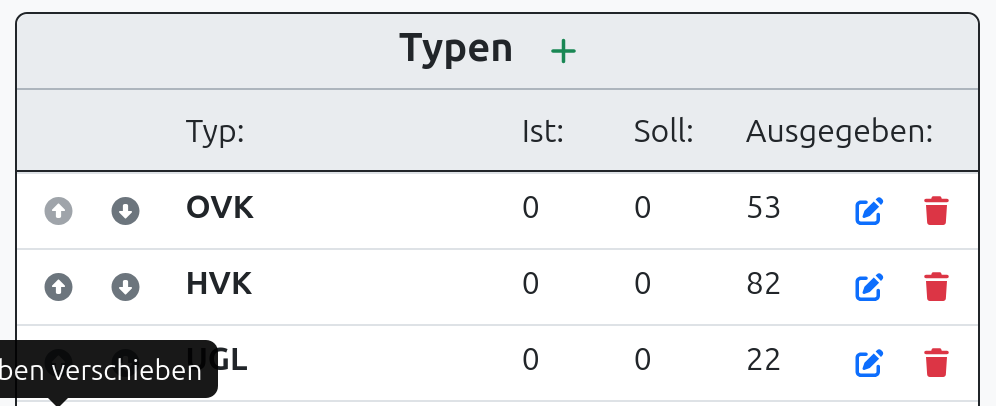
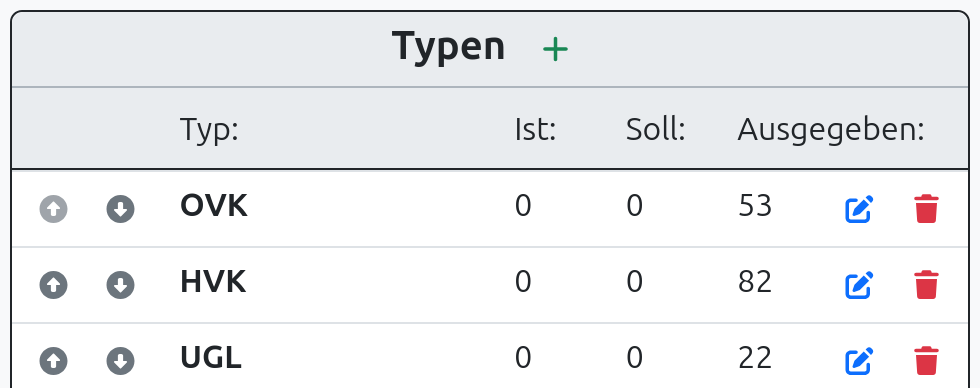
used next Image and Link components, fixed other lint warnings

diff --git a/src/app/[locale]/docs/uniform/detail/page.tsx b/src/app/[locale]/docs/uniform/detail/page.tsx
@@ -1,6 +1,7 @@
 import { faShirt } from "@fortawesome/free-solid-svg-icons";
 import { FontAwesomeIcon } from "@fortawesome/react-fontawesome";
 import Link from "next/link";
+import Image from "next/image";
 
 export const metadata = {
     title: "Einzelteil-Panel — Dokumentation",
@@ -21,7 +22,7 @@ export default function DocsUniformDetailPage() {
             <h2>Details</h2>
             <div className="d-flex flex-column flex-md-row gap-3 align-items-md-start mb-4">
                 <figure className="flex-shrink-0 order-2 order-md-1 m-0">
-                    <img src="/docs-screenshots/uniform-detail-information.png" alt="Ansicht Details" className="img-fluid border rounded shadow-sm" style={{ maxWidth: "380px" }} />
+                    <Image src="/docs-screenshots/uniform-detail-information.png" alt="Ansicht Details" className="img-fluid border rounded shadow-sm" width={380} height={240} />
                     <figcaption className="text-muted small mt-1">Ansicht Details</figcaption>
                 </figure>
                 <div className="order-1 order-md-2">
@@ -40,7 +41,7 @@ export default function DocsUniformDetailPage() {
             <h2>Besitzer</h2>
             <div className="d-flex flex-column flex-md-row gap-3 align-items-md-start mb-4">
                 <figure className="flex-shrink-0 order-2 order-md-1 m-0">
-                    <img src="/docs-screenshots/uniform-detail-owner.png" alt="Ansicht Besitzer" className="img-fluid border rounded shadow-sm" style={{ maxWidth: "380px" }} />
+                    <Image src="/docs-screenshots/uniform-detail-owner.png" alt="Ansicht Besitzer" className="img-fluid border rounded shadow-sm" width={380} height={240} />
                     <figcaption className="text-muted small mt-1">Ansicht Besitzer</figcaption>
                 </figure>
                 <div className="order-1 order-md-2">
@@ -55,7 +56,7 @@ export default function DocsUniformDetailPage() {
             <h2>Lagereinheit</h2>
             <div className="d-flex flex-column flex-md-row gap-3 align-items-md-start mb-4">
                 <figure className="flex-shrink-0 order-2 order-md-1 m-0">
-                    <img src="/docs-screenshots/uniform-detail-storage.png" alt="Ansicht Lagereinheit" className="img-fluid border rounded shadow-sm" style={{ maxWidth: "380px" }} />
+                    <Image src="/docs-screenshots/uniform-detail-storage.png" alt="Ansicht Lagereinheit" className="img-fluid border rounded shadow-sm" width={380} height={240} />
                     <figcaption className="text-muted small mt-1">Ansicht Lagereinheit</figcaption>
                 </figure>
                 <div className="order-1 order-md-2">
@@ -74,7 +75,7 @@ export default function DocsUniformDetailPage() {
             <h2>Mängel</h2>
             <div className="d-flex flex-column flex-md-row gap-3 align-items-md-start mb-4">
                 <figure className="flex-shrink-0 order-2 order-md-1 m-0">
-                    <img src="/docs-screenshots/uniform-detail-deficiency.png" alt="Ansicht Mängel" className="img-fluid border rounded shadow-sm" style={{ maxWidth: "380px" }} />
+                    <Image src="/docs-screenshots/uniform-detail-deficiency.png" alt="Ansicht Mängel" className="img-fluid border rounded shadow-sm" width={380} height={240} />
                     <figcaption className="text-muted small mt-1">Ansicht Mängel</figcaption>
                 </figure>
                 <div className="order-1 order-md-2">
@@ -89,7 +90,7 @@ export default function DocsUniformDetailPage() {
             <h2>Historie</h2>
             <div className="d-flex flex-column flex-md-row gap-3 align-items-md-start mb-4">
                 <figure className="flex-shrink-0 order-2 order-md-1 m-0">
-                    <img src="/docs-screenshots/uniform-detail-history.png" alt="Ansicht Historie" className="img-fluid border rounded shadow-sm" style={{ maxWidth: "380px" }} />
+                    <Image src="/docs-screenshots/uniform-detail-history.png" alt="Ansicht Historie" className="img-fluid border rounded shadow-sm" width={380} height={240} />
                     <figcaption className="text-muted small mt-1">Ansicht Historie</figcaption>
                 </figure>
                 <div className="order-1 order-md-2">

diff --git a/src/app/[locale]/docs/uniform/list/page.tsx b/src/app/[locale]/docs/uniform/list/page.tsx
@@ -1,5 +1,7 @@
 import { faShirt } from "@fortawesome/free-solid-svg-icons";
 import { FontAwesomeIcon } from "@fortawesome/react-fontawesome";
+import Image from "next/image";
+import Link from "next/link";
 
 export const metadata = {
     title: "Uniformliste — Dokumentation",
@@ -20,7 +22,7 @@ export default function DocsUniformListPage() {
 
             <hr />
             <figure className="mb-4">
-                <img src="/docs-screenshots/uniform-list-page.png" alt="Ansicht Uniformliste" className="img-fluid border rounded shadow-sm" />
+                <Image src="/docs-screenshots/uniform-list-page.png" alt="Ansicht Uniformliste" className="img-fluid border rounded shadow-sm" width={1200} height={500} />
                 <figcaption className="text-muted small mt-1">Ansicht Uniformliste</figcaption>
             </figure>
 
@@ -36,7 +38,7 @@ export default function DocsUniformListPage() {
             <h3>Suche</h3>
             <div className="d-flex flex-column flex-md-row gap-3 align-items-md-start mb-4">
                 <figure className="flex-shrink-0 order-2 order-md-1 m-0">
-                    <img src="/docs-screenshots/uniform-list-search.png" alt="Ansicht Suchfeld" className="img-fluid border rounded shadow-sm" style={{ maxWidth: "250px" }} />
+                    <Image src="/docs-screenshots/uniform-list-search.png" alt="Ansicht Suchfeld" className="img-fluid border rounded shadow-sm" width={250} height={160} />
                     <figcaption className="text-muted small mt-1">Ansicht Suchfeld</figcaption>
                 </figure>
                 <div className="order-1 order-md-2">
@@ -58,7 +60,7 @@ export default function DocsUniformListPage() {
             <h3>Filter</h3>
             <div className="d-flex flex-column flex-md-row gap-3 align-items-md-start mb-4">
                 <figure className="flex-shrink-0 order-2 order-md-1 m-0">
-                    <img src="/docs-screenshots/uniform-list-filter.png" alt="Ansicht Filterpanel" className="img-fluid border rounded shadow-sm" style={{ maxWidth: "280px" }} />
+                    <Image src="/docs-screenshots/uniform-list-filter.png" alt="Ansicht Filterpanel" className="img-fluid border rounded shadow-sm" width={280} height={180} />
                     <figcaption className="text-muted small mt-1">Ansicht Filterpanel</figcaption>
                 </figure>
                 <div className="order-1 order-md-2">
@@ -82,13 +84,13 @@ export default function DocsUniformListPage() {
                 Das <strong>R</strong>-Badge an der Nummer kennzeichnet Reserveteile.
                 Ein Besitzer-Link führt direkt zur Detailseite der Person.
             </p>
-            <p>
+                <p>
                 Das externe Link-Symbol am Zeilenende öffnet das{" "}
-                <a href="/docs/uniform/detail">Einzelteil-Panel</a> für dieses Teil.
+                <Link href="/docs/uniform/detail">Einzelteil-Panel</Link> für dieses Teil.
             </p>
 
             <figure className="mb-4">
-                <img src="/docs-screenshots/uniform-list-table.png" alt="Ansicht Tabelle" className="img-fluid border rounded shadow-sm" />
+                <Image src="/docs-screenshots/uniform-list-table.png" alt="Ansicht Tabelle" className="img-fluid border rounded shadow-sm" width={800} height={400} />
                 <figcaption className="text-muted small mt-1">Ansicht Tabelle</figcaption>
             </figure>
 

diff --git a/src/app/[locale]/docs/admin/material/page.tsx b/src/app/[locale]/docs/admin/material/page.tsx
@@ -1,4 +1,5 @@
 import Link from "next/link";
+import Image from "next/image";
 
 export const metadata = {
     title: "Material-Konfiguration — Dokumentation",
@@ -16,14 +17,14 @@ export default function DocsAdminMaterialPage() {
             <hr />
 
             <figure className="mb-4">
-                <img src="/docs-screenshots/material-config-page.png" alt="Material-Konfiguration" className="img-fluid border rounded shadow-sm" />
+                <Image src="/docs-screenshots/material-config-page.png" alt="Material-Konfiguration" className="img-fluid border rounded shadow-sm" width={1200} height={500} />
                 <figcaption className="text-muted small mt-1">Material-Konfigurationsseite mit Materialgruppen und Sortierungs-Schiebereglern.</figcaption>
             </figure>
 
             <h2>Aufbau der Seite</h2>
             <div className="d-flex flex-column flex-md-row gap-3 align-items-md-start mb-4">
                 <figure className="flex-shrink-0 order-2 order-md-1 m-0">
-                    <img src="/docs-screenshots/material-config-group-detail.png" alt="Ansicht Gruppendetails" className="img-fluid border rounded shadow-sm" style={{ maxWidth: "320px" }} />
+                    <Image src="/docs-screenshots/material-config-group-detail.png" alt="Ansicht Gruppendetails" className="img-fluid border rounded shadow-sm" width={320} height={200} />
                     <figcaption className="text-muted small mt-1">Ansicht Gruppendetails</figcaption>
                 </figure>
                 <div className="order-1 order-md-2">
@@ -39,7 +40,7 @@ export default function DocsAdminMaterialPage() {
             <h2>Materialgruppen verwalten</h2>
             <div className="d-flex flex-column flex-md-row gap-3 align-items-md-start mb-4">
                 <figure className="flex-shrink-0 order-2 order-md-1 m-0">
-                    <img src="/docs-screenshots/material-config-groups.png" alt="Ansicht Materialgruppen" className="img-fluid border rounded shadow-sm" style={{ maxWidth: "260px" }} />
+                    <Image src="/docs-screenshots/material-config-groups.png" alt="Ansicht Materialgruppen" className="img-fluid border rounded shadow-sm" width={260} height={170} />
                     <figcaption className="text-muted small mt-1">Ansicht Materialgruppen</figcaption>
                 </figure>
                 <div className="order-1 order-md-2">
@@ -60,7 +61,7 @@ export default function DocsAdminMaterialPage() {
             <h2>Materialtypen verwalten</h2>
             <div className="d-flex flex-column flex-md-row gap-3 align-items-md-start mb-4">
                 <figure className="flex-shrink-0 order-2 order-md-1 m-0">
-                    <img src="/docs-screenshots/material-config-type-list.png" alt="Ansicht Materialtypen" className="img-fluid border rounded shadow-sm" style={{ maxWidth: "380px" }} />
+                    <Image src="/docs-screenshots/material-config-type-list.png" alt="Ansicht Materialtypen" className="img-fluid border rounded shadow-sm" width={380} height={240} />
                     <figcaption className="text-muted small mt-1">Ansicht Materialtypen</figcaption>
                 </figure>
                 <div className="order-1 order-md-2">

diff --git a/src/app/[locale]/docs/cadet/detail/page.tsx b/src/app/[locale]/docs/cadet/detail/page.tsx
@@ -1,5 +1,6 @@
 import { faDisplay } from "@fortawesome/free-solid-svg-icons";
 import { FontAwesomeIcon } from "@fortawesome/react-fontawesome";
+import Image from "next/image";
 
 export const metadata = {
     title: "Personendetail — Dokumentation",
@@ -27,7 +28,7 @@ export default function DocsCadetDetailPage() {
             <h2>Personaldaten</h2>
             <div className="d-flex flex-column flex-md-row gap-3 align-items-md-start mb-4">
                 <figure className="flex-shrink-0 order-2 order-md-1 m-0">
-                    <img src="/docs-screenshots/cadet-detail-data.png" alt="Ansicht Personaldaten" className="img-fluid border rounded shadow-sm" style={{ maxWidth: "220px" }} />
+                    <Image src="/docs-screenshots/cadet-detail-data.png" alt="Ansicht Personaldaten" className="img-fluid border rounded shadow-sm" width={220} height={140} />
                     <figcaption className="text-muted small mt-1">Ansicht Personaldaten</figcaption>
                 </figure>
                 <div className="order-1 order-md-2">
@@ -46,7 +47,7 @@ export default function DocsCadetDetailPage() {
             <h2>Mängel</h2>
             <div className="d-flex flex-column flex-md-row gap-3 align-items-md-start mb-4">
                 <figure className="flex-shrink-0 order-2 order-md-1 m-0">
-                    <img src="/docs-screenshots/cadet-detail-deficiency.png" alt="Ansicht Mängel" className="img-fluid border rounded shadow-sm" style={{ maxWidth: "340px" }} />
+                    <Image src="/docs-screenshots/cadet-detail-deficiency.png" alt="Ansicht Mängel" className="img-fluid border rounded shadow-sm" width={340} height={220} />
                     <figcaption className="text-muted small mt-1">Ansicht Mängel</figcaption>
                 </figure>
                 <div className="order-1 order-md-2">
@@ -83,14 +84,14 @@ export default function DocsCadetDetailPage() {
             </div>
 
             <figure className="mb-4 m-0">
-                <img src="/docs-screenshots/cadet-detail-uniform.png" alt="Ansicht Uniformteile" className="img-fluid border rounded shadow-sm" />
+                <Image src="/docs-screenshots/cadet-detail-uniform.png" alt="Ansicht Uniformteile" className="img-fluid border rounded shadow-sm" width={800} height={400} />
                 <figcaption className="text-muted small mt-1">Ansicht Uniformteile</figcaption>
             </figure>
 
             <h2>Material</h2>
             <div className="d-flex flex-column flex-md-row gap-3 align-items-md-start mb-4">
                 <figure className="flex-shrink-0 order-2 order-md-1 m-0">
-                    <img src="/docs-screenshots/cadet-detail-material.png" alt="Ansicht Material" className="img-fluid border rounded shadow-sm" style={{ maxWidth: "300px" }} />
+                    <Image src="/docs-screenshots/cadet-detail-material.png" alt="Ansicht Material" className="img-fluid border rounded shadow-sm" width={300} height={200} />
                     <figcaption className="text-muted small mt-1">Ansicht Material</figcaption>
                 </figure>
                 <div className="order-1 order-md-2">

diff --git a/src/app/[locale]/docs/storage/overview/page.tsx b/src/app/[locale]/docs/storage/overview/page.tsx
@@ -1,5 +1,6 @@
 import { faBoxOpen } from "@fortawesome/free-solid-svg-icons";
 import { FontAwesomeIcon } from "@fortawesome/react-fontawesome";
+import Image from "next/image";
 
 export const metadata = {
     title: "Lagerverwaltung — Dokumentation",
@@ -21,7 +22,7 @@ export default function DocsStorageOverviewPage() {
             <hr />
 
             <figure className="mb-4">
-                <img src="/docs-screenshots/storage-page.png" alt="Ansicht Lagerverwaltungsseite" className="img-fluid border rounded shadow-sm" />
+                <Image src="/docs-screenshots/storage-page.png" alt="Ansicht Lagerverwaltungsseite" className="img-fluid border rounded shadow-sm" width={1200} height={500} />
                 <figcaption className="text-muted small mt-1">Ansicht Lagerverwaltungsseite</figcaption>
             </figure>
 
@@ -38,7 +39,7 @@ export default function DocsStorageOverviewPage() {
             <h2>Detailpanel</h2>
             <div className="d-flex flex-column flex-md-row gap-3 align-items-md-start mb-4">
                 <figure className="flex-shrink-0 order-2 order-md-1 m-0">
-                    <img src="/docs-screenshots/storage-panel-details.png" alt="Ansicht Detailpanel" className="img-fluid border rounded shadow-sm" style={{ maxWidth: "380px" }} />
+                    <Image src="/docs-screenshots/storage-panel-details.png" alt="Ansicht Detailpanel" className="img-fluid border rounded shadow-sm" width={380} height={240} />
                     <figcaption className="text-muted small mt-1">Ansicht Detailpanel</figcaption>
                 </figure>
                 <div className="order-1 order-md-2">
@@ -57,7 +58,7 @@ export default function DocsStorageOverviewPage() {
             <h2>Uniformteile zuweisen</h2>
             <div className="d-flex flex-column flex-md-row gap-3 align-items-md-start mb-4">
                 <figure className="flex-shrink-0 order-2 order-md-1 m-0">
-                    <img src="/docs-screenshots/storage-panel-items.png" alt="Ansicht Uniformteile" className="img-fluid border rounded shadow-sm" style={{ maxWidth: "380px" }} />
+                    <Image src="/docs-screenshots/storage-panel-items.png" alt="Ansicht Uniformteile" className="img-fluid border rounded shadow-sm" width={380} height={240} />
                     <figcaption className="text-muted small mt-1">Ansicht Uniformteile der Lagereinheit</figcaption>
                 </figure>
                 <div className="order-1 order-md-2">

diff --git a/src/app/[locale]/docs/admin/uniform/page.tsx b/src/app/[locale]/docs/admin/uniform/page.tsx
@@ -1,4 +1,5 @@
 import Link from "next/link";
+import Image from "next/image";
 
 export const metadata = {
     title: "Uniform-Konfiguration — Dokumentation",
@@ -17,14 +18,14 @@ export default function DocsAdminUniformPage() {
             <hr />
 
             <figure className="mb-4">
-                <img src="/docs-screenshots/uniform-config-type-list.png" alt="Uniform-Konfiguration" className="img-fluid border rounded shadow-sm" />
+                <Image src="/docs-screenshots/uniform-config-type-list.png" alt="Uniform-Konfiguration" className="img-fluid border rounded shadow-sm" width={1200} height={500} />
                 <figcaption className="text-muted small mt-1">Uniform-Konfigurationsseite mit Uniformtypen und Größenlisten.</figcaption>
             </figure>
 
             <h2>Uniformtypen verwalten</h2>
             <div className="d-flex flex-column flex-md-row gap-3 align-items-md-start mb-4">
                 <figure className="flex-shrink-0 order-2 order-md-1 m-0">
-                    <img src="/docs-screenshots/uniform-config-type-details.png" alt="Ansicht Uniformtyp-Details" className="img-fluid border rounded shadow-sm" style={{ maxWidth: "380px" }} />
+                    <Image src="/docs-screenshots/uniform-config-type-details.png" alt="Ansicht Uniformtyp-Details" className="img-fluid border rounded shadow-sm" width={380} height={240} />
                     <figcaption className="text-muted small mt-1">Ansicht Uniformtyp-Details</figcaption>
                 </figure>
                 <div className="order-1 order-md-2">
@@ -43,7 +44,7 @@ export default function DocsAdminUniformPage() {
             <h2>Generationen verwalten</h2>
             <div className="d-flex flex-column flex-md-row gap-3 align-items-md-start mb-4">
                 <figure className="flex-shrink-0 order-2 order-md-1 m-0">
-                    <img src="/docs-screenshots/uniform-config-generation-list.png" alt="Ansicht Generationsliste" className="img-fluid border rounded shadow-sm" style={{ maxWidth: "380px" }} />
+                    <Image src="/docs-screenshots/uniform-config-generation-list.png" alt="Ansicht Generationsliste" className="img-fluid border rounded shadow-sm" width={380} height={240} />
                     <figcaption className="text-muted small mt-1">Ansicht Generationsliste</figcaption>
                 </figure>
                 <div className="order-1 order-md-2">

diff --git a/src/app/[locale]/docs/cadet/list/page.tsx b/src/app/[locale]/docs/cadet/list/page.tsx
@@ -1,5 +1,6 @@
-import { faDisplay, faUser } from "@fortawesome/free-solid-svg-icons";
+import { faUser } from "@fortawesome/free-solid-svg-icons";
 import { FontAwesomeIcon } from "@fortawesome/react-fontawesome";
+import Image from "next/image";
 
 export const metadata = {
     title: "Personalliste — Dokumentation",
@@ -22,7 +23,7 @@ export default function DocsCadetListPage() {
 
             <hr />
             <figure className="my-4">
-                <img src="/docs-screenshots/Personalliste.png" alt="Nutzerverwaltung" className="img-fluid border rounded shadow-sm" />
+                <Image src="/docs-screenshots/Personalliste.png" alt="Nutzerverwaltung" className="img-fluid border rounded shadow-sm" width={1200} height={500} />
                 <figcaption className="text-muted small mt-1">Nutzerübersicht mit Benutzernamen, Rollen und Status aller Konten der Organisation.</figcaption>
             </figure>
             
@@ -48,7 +49,7 @@ export default function DocsCadetListPage() {
             </ul>
 
              <figure className="my-4">
-                <img src="/docs-screenshots/Personalliste-filter.png" alt="Nutzerverwaltung" className="img-fluid border rounded shadow-sm" />
+                <Image src="/docs-screenshots/Personalliste-filter.png" alt="Nutzerverwaltung" className="img-fluid border rounded shadow-sm" width={800} height={400} />
                 <figcaption className="text-muted small mt-1">Nutzerübersicht mit Benutzernamen, Rollen und Status aller Konten der Organisation.</figcaption>
             </figure>
 

diff --git a/src/app/[locale]/[acronym]/admin/user/tableLine.tsx b/src/app/[locale]/[acronym]/admin/user/tableLine.tsx
@@ -11,8 +11,8 @@ import { User } from "@/types/userTypes";
 import { faBars, faCheck, faX } from "@fortawesome/free-solid-svg-icons";
 import { FontAwesomeIcon } from "@fortawesome/react-fontawesome";
 import { useEffect, useState } from "react";
-import { Button, Dropdown, FormControl, FormGroup, FormLabel, FormSelect } from "react-bootstrap";
-import { Control, Controller, FieldErrors, FormProvider, UseFormRegister, useForm } from "react-hook-form";
+import { Button, Dropdown, FormGroup, FormLabel, FormSelect } from "react-bootstrap";
+import { Control, Controller, useForm } from "react-hook-form";
 import { toast } from "react-toastify";
 
 export default function UserAdminTableRow({
@@ -28,7 +28,7 @@ export default function UserAdminTableRow({
     const modal = useModal();
 
     const formId = `user_${user ? user.id : "new"}`;
-    const { register, control, handleSubmit, reset, formState: { errors } } = useForm<User>({ defaultValues: user, mode: "onChange" });
+    const { control, handleSubmit, reset } = useForm<User>({ defaultValues: user, mode: "onChange" });
     const mobileForm = useForm<User>({ defaultValues: user, mode: "onChange" });
 
     const [editable, setEditable] = useState(!user);

diff --git a/src/app/[locale]/docs/uniform/sizes/page.tsx b/src/app/[locale]/docs/uniform/sizes/page.tsx
@@ -1,5 +1,6 @@
 import { faShirt } from "@fortawesome/free-solid-svg-icons";
 import { FontAwesomeIcon } from "@fortawesome/react-fontawesome";
+import Image from "next/image";
 
 export const metadata = {
     title: "Größen & Größenlisten — Dokumentation",
@@ -18,7 +19,7 @@ export default function DocsUniformSizesPage() {
             <hr />
 
             <figure className="mb-4">
-                <img src="/docs-screenshots/sizelist-overview.png" alt="Ansicht Größen & Größenlisten" className="img-fluid border rounded shadow-sm" />
+                <Image src="/docs-screenshots/sizelist-overview.png" alt="Ansicht Größen & Größenlisten" className="img-fluid border rounded shadow-sm" />
                 <figcaption className="text-muted small mt-1">Ansicht Größen &amp; Größenlisten Konfiguration</figcaption>
             </figure>
 

diff --git a/src/app/[locale]/docs/dashboard/page.tsx b/src/app/[locale]/docs/dashboard/page.tsx
@@ -1,5 +1,6 @@
 import { faChartLine } from "@fortawesome/free-solid-svg-icons";
 import { FontAwesomeIcon } from "@fortawesome/react-fontawesome";
+import Image from "next/image";
 
 export const metadata = {
     title: "Dashboard — Dokumentation",
@@ -17,7 +18,7 @@ export default function DocsDashboardPage() {
             <hr />
 
             <figure className="my-4">
-                <img src="/docs-screenshots/ss-dashboard.png" alt="Dashboard" className="img-fluid border rounded shadow-sm" />
+                <Image src="/docs-screenshots/ss-dashboard.png" alt="Dashboard" className="img-fluid border rounded shadow-sm" width={1200} height={500} />
                 <figcaption className="text-muted small mt-1">Dashboard mit Balkendiagramm zur Verteilung der Uniformteile nach Typ.</figcaption>
             </figure>
 

diff --git a/src/components/ExpandableArea/ExpandableArea.tsx b/src/components/ExpandableArea/ExpandableArea.tsx
@@ -1,10 +1,10 @@
 "use client";
+import { useI18n } from "@/lib/locales/client";
 import { faChevronDown } from "@fortawesome/free-solid-svg-icons";
 import { FontAwesomeIcon } from "@fortawesome/react-fontawesome";
 import React, { useState } from "react";
-import { Row, Button } from "react-bootstrap";
+import { Button, Row } from "react-bootstrap";
 import styles from "./ExpandableArea.module.css";
-import { useI18n } from "@/lib/locales/client";
 
 type ExpandableAreaProps = {
     children: React.ReactNode;
@@ -14,7 +14,6 @@ type ExpandableAreaProps = {
 }
 
 export const ExpandableArea = ({ children, header, headerClassName, defaultExpanded = false }: ExpandableAreaProps) => {
-    const t = useI18n();
     const [expanded, setExpanded] = useState(defaultExpanded);
 
     const getHeader = () => {

diff --git a/src/app/[locale]/docs/admin/users/page.tsx b/src/app/[locale]/docs/admin/users/page.tsx
@@ -2,6 +2,8 @@ export const metadata = {
     title: "Benutzerverwaltung — Dokumentation",
 };
 
+import Image from "next/image";
+
 export default function DocsAdminUsersPage() {
     return (
         <>
@@ -14,7 +16,7 @@ export default function DocsAdminUsersPage() {
             <hr />
 
             <figure className="mb-4">
-                <img src="/docs-screenshots/user-page.png" alt="Nutzerverwaltung" className="img-fluid border rounded shadow-sm" />
+                <Image src="/docs-screenshots/user-page.png" alt="Nutzerverwaltung" className="img-fluid border rounded shadow-sm" width={1200} height={500} />
                 <figcaption className="text-muted small mt-1">Nutzerübersicht mit Benutzernamen, Rollen und Status aller Konten der Organisation.</figcaption>
             </figure>
 
